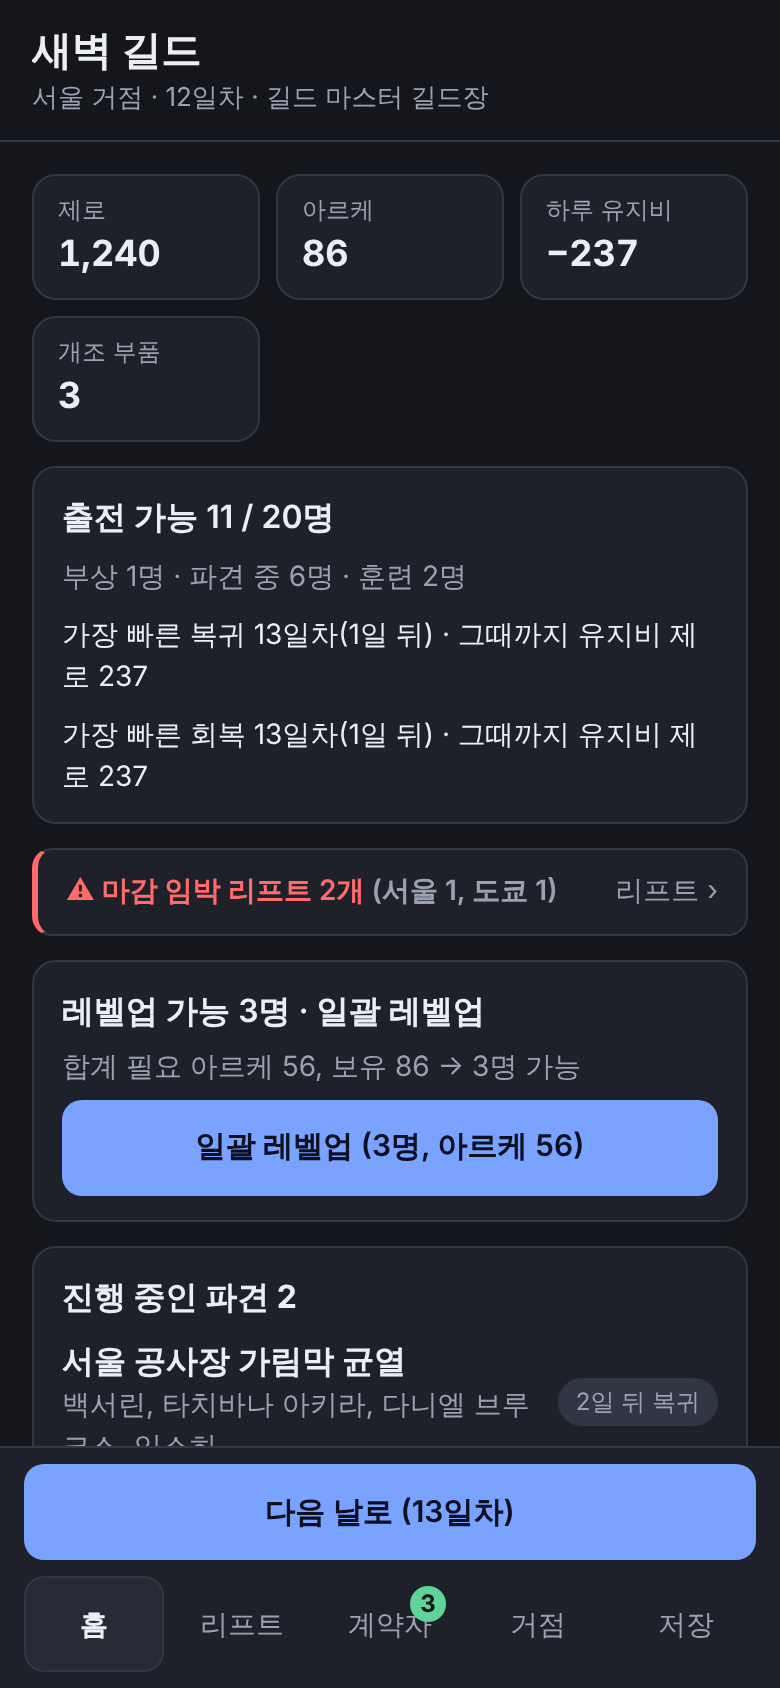
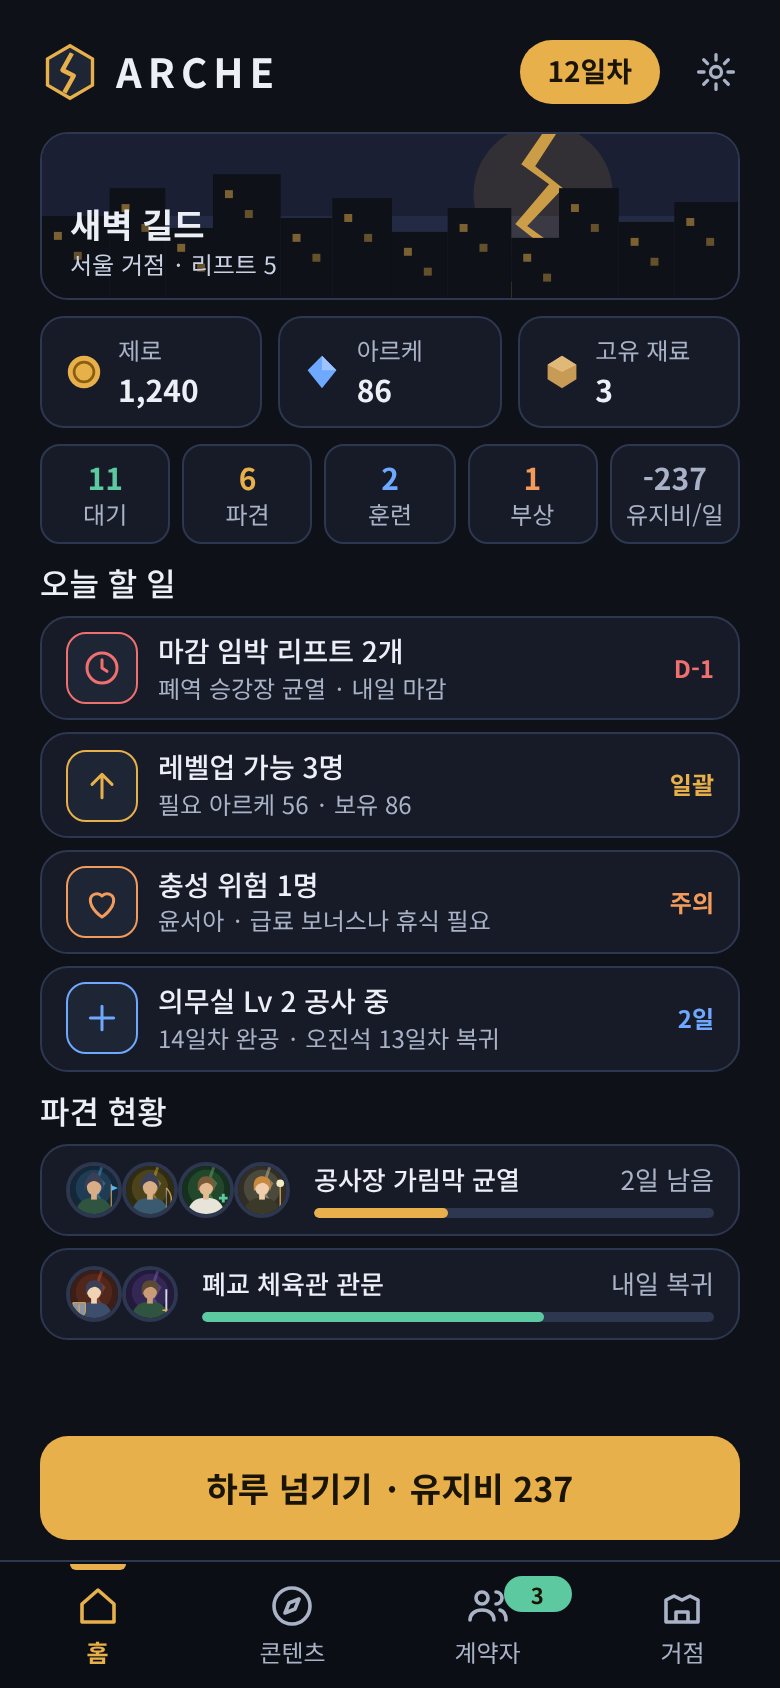
UI: Main 시안 적용
Claude-Session: https://claude.ai/code/session_01FY7xR2SQj9HuHv9DUubMKu

diff --git a/src/ui/screens/GuildHome.tsx b/src/ui/screens/GuildHome.tsx
@@ -1,151 +1,198 @@
+/**
+ * 홈(시안 Main, 지시서 017). 구역 순서: header · hero · resources · counts · todo · dispatch · cta.
+ * 하루 넘기기 버튼은 이 화면에만 있다.
+ */
 import { tables } from '../../data';
-import { guildUpkeepPerDay, isOnExpedition } from '../../engine/game';
-import { AppShell } from '../AppShell';
-import { ElementTag, LoyaltyBadge, OmenBadge, Panel, RoleTag } from '../components';
+import { getFacility } from '../../engine/facilities';
+import { levelUpAll } from '../../engine/game';
 import { loyaltyTier } from '../../engine/loyalty';
-import { cityName, injuryText, materialName, num, outcomeName, term } from '../format';
-import { MainTabs } from '../MainTabs';
-import { StatusSummary } from '../StatusSummary';
-import { BulkLevelUp } from '../BulkLevelUp';
+import { guildStatusSummary, levelUpOverview } from '../../engine/status';
+import { GUILD_BANNER } from '../art/fallback';
+import { Art, Avatar, Card, Gauge, Icon, LogoRow, Screen, Section, type IconName } from '../components';
+import { cityName, num } from '../format';
 import type { Ctx } from '../nav';
-import { assignedFacility, getFacility } from '../../engine/facilities';
-import { cityChips } from '../riftFilter';
+import { isUrgent, daysLeft } from '../riftFilter';
+
+interface Todo {
+  key: string;
+  icon: IconName;
+  color: string;
+  title: string;
+  sub: string;
+  right: string;
+  onClick: () => void;
+}
 
 export function GuildHome({ ctx }: { ctx: Ctx }) {
   const s = ctx.game.state;
-  const guild = s.mercenaries.filter((m) => m.affiliation.kind === 'guild');
-  const recent = s.reports.slice(-tables.ui.recentReportsOnHome).reverse();
-  const materials = Object.entries(s.resources.materials).filter(([, n]) => n > 0);
-  const unpaid = guild.reduce((sum, m) => sum + (m.unpaidUpkeep?.zero ?? 0), 0);
-  // 마감 임박 리프트(모든 도시). 누르면 거점 도시, 거점에 없으면 임박이 가장 많은 도시를 연다.
-  const chips = cityChips(tables, s);
-  const urgent = chips.reduce((a, c) => a + c.urgent, 0);
-  const urgentCity = chips.find((c) => c.cityId === s.baseCityId && c.urgent > 0) ?? [...chips].sort((a, b) => b.urgent - a.urgent)[0];
+  const sum = guildStatusSummary(tables, s);
+  const o = levelUpOverview(tables, s);
+  const materials = Object.values(s.resources.materials).reduce((a, n) => a + n, 0);
+
+  // 오늘 할 일(해당하는 것만, 최대 4종)
+  const todos: Todo[] = [];
+  const urgent = s.rifts.filter((r) => isUrgent(tables, s.facilities, r, s.day)).sort((a, b) => (daysLeft(tables, s.facilities, a, s.day)?.[0] ?? 99) - (daysLeft(tables, s.facilities, b, s.day)?.[0] ?? 99));
+  if (urgent.length) {
+    const left = daysLeft(tables, s.facilities, urgent[0], s.day)?.[0] ?? 0;
+    todos.push({
+      key: 'urgent',
+      icon: 'clock',
+      color: 'var(--c-bad)',
+      title: `마감 임박 리프트 ${urgent.length}개`,
+      sub: `${shortName(urgent[0].name, urgent[0].cityId)} · ${left === 0 ? '오늘 마감' : left === 1 ? '내일 마감' : `${left}일 뒤 마감`}`,
+      right: `D-${left}`,
+      onClick: () => ctx.go({ name: 'rifts', cityId: urgent[0].cityId }),
+    });
+  }
+  if (o.readyCount > 0)
+    todos.push({
+      key: 'levelup',
+      icon: 'arrowUp',
+      color: 'var(--c-gold)',
+      title: `레벨업 가능 ${o.readyCount}명`,
+      sub: `필요 아르케 ${num(o.totalCostOneEach)} · 보유 ${num(s.resources.arche)}`,
+      right: '일괄',
+      onClick: () => {
+        const { state, steps } = levelUpAll(tables, s);
+        if (!steps.length) return ctx.toast('아르케가 부족합니다');
+        ctx.setState(state);
+        ctx.toast(`${new Set(steps.map((x) => x.mercId)).size}명 총 ${steps.length}레벨, 아르케 −${num(steps.reduce((a, x) => a + x.cost, 0))}`);
+      },
+    });
+  const danger = s.mercenaries.filter((m) => m.affiliation.kind === 'guild' && m.loyalty && loyaltyTier(tables, m.loyalty.value).warn);
+  if (danger.length)
+    todos.push({
+      key: 'loyalty',
+      icon: 'heart',
+      color: 'var(--c-warn)',
+      title: `충성 위험 ${danger.length}명`,
+      sub: `${danger[0].name} · 급료 보너스나 휴식 필요`,
+      right: '주의',
+      onClick: () => ctx.go({ name: 'merc', mercId: danger[0].id }),
+    });
+  const job = s.facilities.construction;
+  if (job) {
+    const fac = getFacility(tables, job.facilityId);
+    const recover = s.mercenaries.filter((m) => m.affiliation.kind === 'guild' && m.injury).sort((a, b) => a.injury!.recoverDay - b.injury!.recoverDay)[0];
+    todos.push({
+      key: 'facility',
+      icon: 'plus',
+      color: 'var(--c-info)',
+      title: `${fac.name} Lv ${job.targetLevel} 공사 중`,
+      sub: `${job.completeDay}일차 완공${recover ? ` · ${recover.name} ${recover.injury!.recoverDay}일차 복귀` : ''}`,
+      right: `${Math.max(0, job.completeDay - s.day)}일`,
+      onClick: () => ctx.go({ name: 'base' }),
+    });
+  }
 
   return (
-    <AppShell
-      title={s.guildName}
-      subtitle={`${cityName(s.baseCityId)} 거점 · ${s.day}일차 · ${s.protagonist.mode === 'opener' ? '개방자' : '길드 마스터'} ${s.protagonist.name}`}
-      footer={<MainTabs ctx={ctx} current="home" />}
+    <Screen
+      ctx={ctx}
+      tab="home"
+      footer={
+        <div className="foot" data-ui="Main.cta">
+          <button className="btn-big" onClick={ctx.nextDay} disabled={ctx.busy}>
+            {ctx.busy ? '진행 중…' : `하루 넘기기 · 유지비 ${num(sum.dailyUpkeep)}`}
+          </button>
+        </div>
+      }
     >
-      <div className="resources">
-        <div className="res">
-          <span className="res-label">제로</span>
-          <span className="res-value">{num(s.resources.zero)}</span>
+      <div className="pg top" data-role="page">
+        <div data-ui="Main.header">
+          <LogoRow ctx={ctx} back={{ name: 'home' }} right={<span className="day-pill">{s.day}일차</span>} />
         </div>
-        <div className="res">
-          <span className="res-label">아르케</span>
-          <span className="res-value">{num(s.resources.arche)}</span>
-        </div>
-        <div className="res">
-          <span className="res-label">하루 유지비</span>
-          <span className="res-value">−{num(guildUpkeepPerDay(tables, s))}</span>
-        </div>
-        {materials.map(([id, n]) => (
-          <div className="res" key={id}>
-            <span className="res-label">{materialName(id)}</span>
-            <span className="res-value">{num(n)}</span>
+        <div className="card" data-role="card" data-ui="Main.hero" style={{ position: 'relative', height: 84, overflow: 'hidden' }}>
+          <Art kind="banner" id="guild" fallback={GUILD_BANNER} fill />
+          <div style={{ position: 'absolute', left: 14, bottom: 8 }} className="col">
+            <span style={{ fontSize: 17, fontWeight: 700 }}>{s.guildName}</span>
+            <span style={{ fontSize: 12, color: 'var(--c-text-banner)' }}>
+              {cityName(s.baseCityId)} 거점 · 리프트 {s.rifts.filter((r) => r.cityId === s.baseCityId).length}
+            </span>
           </div>
-        ))}
+        </div>
+        <div className="row" data-ui="Main.resources" style={{ gap: 8 }}>
+          <Res icon="zero" label="제로" value={num(s.resources.zero)} />
+          <Res icon="arche" label="아르케" value={num(s.resources.arche)} />
+          <Res icon="material" label="고유 재료" value={num(materials)} />
+        </div>
+        <div className="row" data-ui="Main.counts" style={{ gap: 6 }}>
+          <Count value={sum.available} label="대기" color="var(--c-ok)" />
+          <Count value={sum.blocked.expedition} label="파견" color="var(--c-gold)" />
+          <Count value={sum.blocked.training} label="훈련" color="var(--c-info)" />
+          <Count value={sum.blocked.injured} label="부상" color="var(--c-warn)" />
+          <Count value={`-${num(sum.dailyUpkeep)}`} label="유지비/일" color="var(--c-text-sub)" />
+        </div>
       </div>
-
-      {unpaid > 0 && <p className="error small">유지비 미납 누적 제로 {num(unpaid)}. 지금은 기록만 남습니다.</p>}
-
-      <StatusSummary ctx={ctx} />
-      <button className="home-urgent" onClick={() => ctx.go({ name: 'rifts', cityId: urgent > 0 ? urgentCity?.cityId : undefined })}>
-        <span className={urgent ? 'bad strong' : 'muted'}>
-          {urgent ? '⚠ ' : ''}마감 임박 리프트 {urgent}개
-          {urgent > 0 && <span className="muted"> ({chips.filter((c) => c.urgent).map((c) => `${cityName(c.cityId)} ${c.urgent}`).join(', ')})</span>}
-        </span>
-        <span className="muted">리프트 ›</span>
-      </button>
-      <BulkLevelUp ctx={ctx} hideWhenNone title="레벨업 가능" />
-
-      <Panel title={`진행 중인 파견 ${s.expeditions.length}`}>
-        {s.expeditions.length === 0 ? (
-          <p className="muted">
-            보낸 파티가 없습니다.{' '}
-            <button className="link" onClick={() => ctx.go({ name: 'rifts' })}>
-              리프트 보기
-            </button>
-          </p>
-        ) : (
-          <ul className="rows">
-            {s.expeditions.map((e) => (
-              <li key={e.id} className="row-item">
-                <div>
-                  <div className="strong">
-                    {e.rift.name} {e.rift.omen && <OmenBadge />}
-                  </div>
-                  <div className="muted small">
-                    {e.party.map((p) => s.mercenaries.find((m) => m.id === p.mercId)?.name).join(', ')}
-                  </div>
-                </div>
-                <span className="pill">{e.returnDay - s.day}일 뒤 복귀</span>
-              </li>
-            ))}
-          </ul>
-        )}
-      </Panel>
-
-      {recent.length > 0 && (
-        <Panel title="최근 복귀">
-          <ul className="rows">
-            {recent.map((r) => (
-              <li key={r.expeditionId}>
-                <button
-                  className="row-item row-button"
-                  disabled={!r.events}
-                  onClick={() => ctx.go({ name: 'replay', expeditionId: r.expeditionId, back: { name: 'home' } })}
-                >
-                  <div>
-                    <div className="strong">
-                      {r.rift.name} {r.rift.omen && <OmenBadge />}
-                    </div>
-                    <div className="muted small">{r.day}일차 복귀 · 제로 +{num(r.reward.zero)} · 아르케 +{num(r.reward.arche)}</div>
-                  </div>
-                  <span className={`pill outcome-${r.outcome}`}>{outcomeName[r.outcome]}</span>
-                </button>
-              </li>
-            ))}
-          </ul>
-        </Panel>
-      )}
-
-      <Panel title={`${term.merc} ${guild.length}`} action={<button className="link" onClick={() => ctx.go({ name: 'mercs' })}>전체</button>}>
-        <ul className="rows">
-          {guild.map((m) => (
-            <li key={m.id}>
-              <button className="row-item row-button" onClick={() => ctx.go({ name: 'merc', mercId: m.id })}>
-                <div>
-                  <div className="strong">
-                    {m.name} {m.isProtagonist && <span className="pill small">주인공</span>}
-                  </div>
-                  <div className="tags">
-                    <ElementTag id={m.element} />
-                    <RoleTag id={m.role} />
-                    <span className="muted small">Lv{m.level}</span>
-                    {m.loyalty && loyaltyTier(tables, m.loyalty.value).warn && <LoyaltyBadge value={m.loyalty.value} />}
-                  </div>
-                </div>
-                {m.injury ? (
-                  <span className="pill bad">
-                    {injuryText(m.injury)}
-                  </span>
-                ) : isOnExpedition(s, m.id) ? (
-                  <span className="pill">파견 중</span>
-                ) : assignedFacility(s.facilities, m.id) ? (
-                  <span className="pill">{getFacility(tables, assignedFacility(s.facilities, m.id)!).name} 배치</span>
-                ) : m.loyalty?.refusedOnDay === s.day ? (
-                  <span className="pill bad">오늘 거부</span>
-                ) : (
-                  <span className="pill ok">대기</span>
-                )}
-              </button>
-            </li>
+      {todos.length > 0 && (
+        <Section title="오늘 할 일" data-ui="Main.todo">
+          {todos.map((t) => (
+            <Card key={t.key} onClick={t.onClick} label={t.title} className="todo">
+              <span className="todo-icon" style={{ borderColor: t.color, color: t.color }}>
+                <Icon name={t.icon} />
+              </span>
+              <span className="col grow" style={{ minWidth: 0 }}>
+                <span className="t14 m ellipsis">{t.title}</span>
+                <span className="sub ellipsis">{t.sub}</span>
+              </span>
+              <span style={{ fontSize: 12, fontWeight: 700, color: t.color, flex: 'none' }}>{t.right}</span>
+            </Card>
           ))}
-        </ul>
-      </Panel>
-    </AppShell>
+        </Section>
+      )}
+      <Section title="파견 현황" data-ui="Main.dispatch">
+        {s.expeditions.map((e) => {
+          const left = e.returnDay - s.day;
+          const total = Math.max(1, e.returnDay - e.departDay);
+          const ratio = (s.day - e.departDay) / total;
+          return (
+            <Card key={e.id} className="dispatch">
+              <span className="avatars">
+                {e.party.map((p) => {
+                  const m = s.mercenaries.find((x) => x.id === p.mercId)!;
+                  return <Avatar key={p.mercId} id={m.id} element={m.element} role={m.role} />;
+                })}
+              </span>
+              <span className="col grow" style={{ gap: 5, minWidth: 0 }}>
+                <span className="row between t13">
+                  <span className="m ellipsis">{shortName(e.rift.name, e.rift.cityId)}</span>
+                  <span className="dim" style={{ flex: 'none' }}>
+                    {left <= 1 ? '내일 복귀' : `${left}일 남음`}
+                  </span>
+                </span>
+                <Gauge ratio={ratio} color={left <= 1 ? 'var(--c-ok)' : 'var(--c-gold)'} />
+              </span>
+            </Card>
+          );
+        })}
+      </Section>
+      <div className="grow" />
+    </Screen>
+  );
+}
+
+/** 리프트 이름에서 앞의 도시 이름을 뺀 것(시안 표기) */
+function shortName(name: string, cityId: string) {
+  const prefix = `${cityName(cityId)} `;
+  return name.startsWith(prefix) ? name.slice(prefix.length) : name;
+}
+
+function Res({ icon, label, value }: { icon: IconName; label: string; value: string }) {
+  return (
+    <div className="box row grow" style={{ padding: '8px 12px', gap: 8 }}>
+      <Icon name={icon} />
+      <div className="col">
+        <span className="sub">{label}</span>
+        <span style={{ fontSize: 15, fontWeight: 700 }}>{value}</span>
+      </div>
+    </div>
+  );
+}
+
+function Count({ value, label, color }: { value: number | string; label: string; color: string }) {
+  return (
+    <div className="box col grow" style={{ borderRadius: 'var(--r-btn)', padding: '5px 0', alignItems: 'center' }}>
+      <span style={{ fontSize: 15, fontWeight: 700, color }}>{value}</span>
+      <span className="sub">{label}</span>
+    </div>
   );
 }

diff --git a/src/ui/ui.css b/src/ui/ui.css
@@ -10,9 +10,10 @@ html, body, #root { margin: 0; height: 100%; background: var(--c-page); }
   background: var(--c-bg); color: var(--c-text); font-family: var(--font);
   display: flex; flex-direction: column; overflow: hidden; position: relative; line-height: 1.4;
 }
-.scr * { box-sizing: border-box; }
-.scr button { font: inherit; color: inherit; background: none; border: 0; padding: 0; cursor: pointer; text-align: inherit; }
+:where(.scr) * { box-sizing: border-box; }
+:where(.scr) :where(button) { font: inherit; color: inherit; background: none; border: 0; padding: 0; cursor: pointer; text-align: inherit; }
 .scr :focus-visible { outline: 2px solid var(--c-gold); outline-offset: 2px; }
+.scr-body.shell-body { padding: 0; gap: 0; }
 .scr-body { flex: 1; min-height: 0; overflow-y: auto; overflow-x: hidden; display: flex; flex-direction: column; }
 .scr-body.slide-left { animation: slide-l 200ms ease-out; }
 .scr-body.slide-right { animation: slide-r 200ms ease-out; }
@@ -185,3 +186,8 @@ html, body, #root { margin: 0; height: 100%; background: var(--c-page); }
 .sheet-backdrop { position: fixed; inset: 0; background: var(--c-scrim); display: flex; align-items: flex-end; justify-content: center; z-index: 30; }
 .sheet { width: 100%; max-width: 430px; background: var(--c-panel); border-radius: var(--r-card) var(--r-card) 0 0; padding: 20px var(--pad-x) 16px; display: flex; flex-direction: column; gap: 12px; color: var(--c-text); font-family: var(--font); max-height: 80dvh; overflow-y: auto; }
 .sheet h2 { margin: 0; font-size: 17px; }
+
+/* ── 홈(시안 Main) ───────────────────────────────── */
+.card.todo { width: 100%; min-height: 50px; padding: 7px 12px; display: flex; align-items: center; gap: 10px; text-align: left; }
+.todo-icon { width: 36px; height: 36px; border-radius: var(--r-btn); background: var(--c-panel-2); border: 1px solid; display: flex; align-items: center; justify-content: center; flex: none; }
+.card.dispatch { padding: 8px 12px; display: flex; align-items: center; gap: 12px; }
